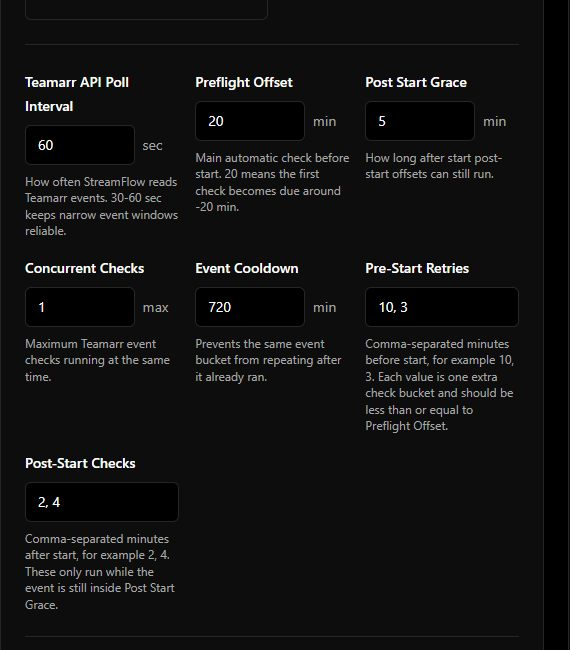
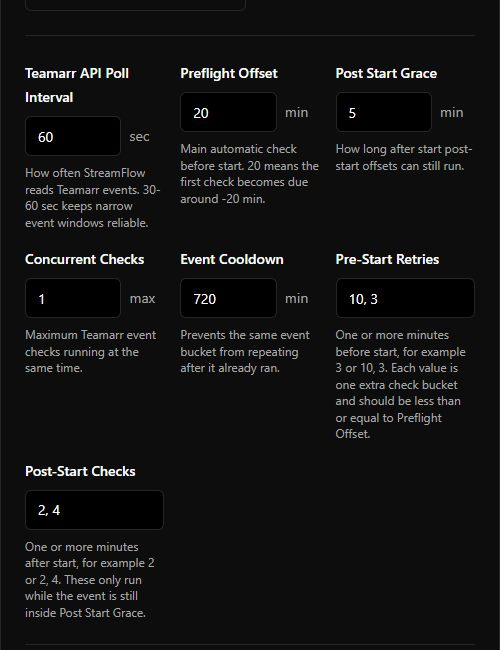
Refresh Teamarr preflight help screenshot

diff --git a/frontend/src/lib/operator-help-content.js b/frontend/src/lib/operator-help-content.js
@@ -435,7 +435,7 @@ export const operatorHelpDetailTopics = [
           triggerLabel: 'UI Screenshot',
           alt: 'Dark mode crop of Teamarr Preflight timing fields including Teamarr API poll interval, preflight offset, retries, grace, cooldown, and post-start checks.',
           caption: 'Preflight Offset is the main pre-start bucket; Pre-Start Retries and Post-Start Checks accept one or more minute offsets, with inline help under each timing field.',
-          width: 570,
+          width: 500,
           height: 650,
         },
       },
